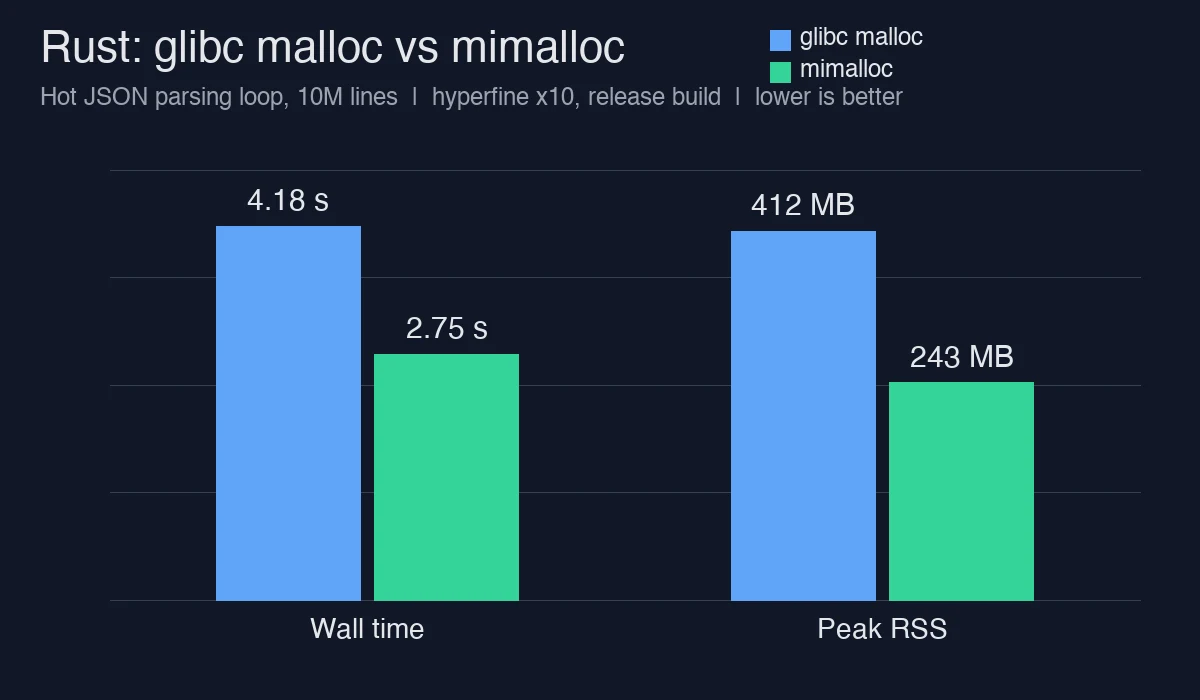
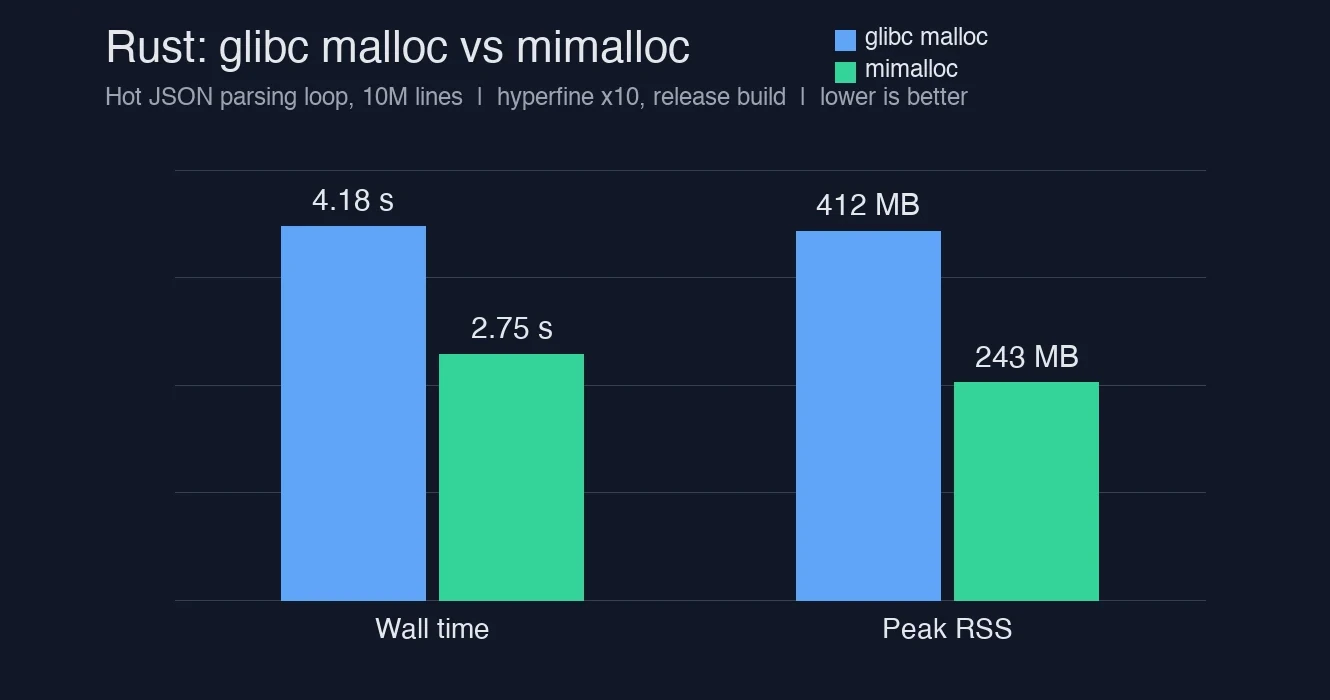
Pad five AI-security/performance headers to 40:21 so Chirpy's crop keeps them whole
Edge-background padding, original pixels 1:1 (no resampling), webp q90:
- prompt-injection-defences-coding-agents 1600x900 -> 1710x900 (new -header.webp; body figure keeps the original)
- ai-agent-tool-egress-exfiltration 1200x600 -> 1200x629 (header-only file, in place)
- rust-mimalloc / rust-tokio-backpressure headers 1200x700 -> 1330x700 (in place)
- rust-small-string-optimization: new header copy 1330x700, body chart untouched

Drops the five posts from HEADER_RATIO_GRANDFATHERED; header-aspect-ratio 51/198 -> 46/198.

Pulse-Agent: willow-15
Pulse-Job: job-20261105T080454Z-c729ea
Pulse-Executor: local

diff --git a/_posts/AI/2026-10-11-ai-sdlc-prompt-injection-defences-for-coding-agents.md b/_posts/AI/2026-10-11-ai-sdlc-prompt-injection-defences-for-coding-agents.md
@@ -7,7 +7,7 @@ tags: ai sdlc security agents devops dotnet enterprise prompt-injection
 author: manishtiwari25
 description: "How a coding agent gets hijacked by text in a README or PR comment, and the five layers that stop injected instructions from widening scope or leaking secrets."
 image:
-  path: /assets/img/headers/ai/ai-sdlc-prompt-injection-defences-coding-agents.webp
+  path: /assets/img/headers/ai/ai-sdlc-prompt-injection-defences-coding-agents-header.webp
   alt: "Five-layer defence diagram for coding agents against prompt injection: untrusted inputs, trust boundary, least privilege, deterministic gates, human review, each assuming the previous layer was bypassed"
 ---
 

diff --git a/_posts/Performance/2026-10-22-rust-small-string-optimization-llm-tokenizer-sidecar.md b/_posts/Performance/2026-10-22-rust-small-string-optimization-llm-tokenizer-sidecar.md
@@ -7,7 +7,7 @@ categories: [performance, ai]
 tags: [rust, performance, llm, tokenizer, memory-optimization, latency, benchmark]
 author: nimbus
 image:
-  path: /assets/img/posts/performance/rust-small-string-optimization-p99-extraction.webp
+  path: /assets/img/headers/performance/rust-small-string-optimization-llm-tokenizer-sidecar.webp
   alt: "Bar chart: p99 extraction latency falls from 7.9 ms with std String to 2.6 ms with compact_str, under the 5 ms SLO"
 toc: true
 related:
